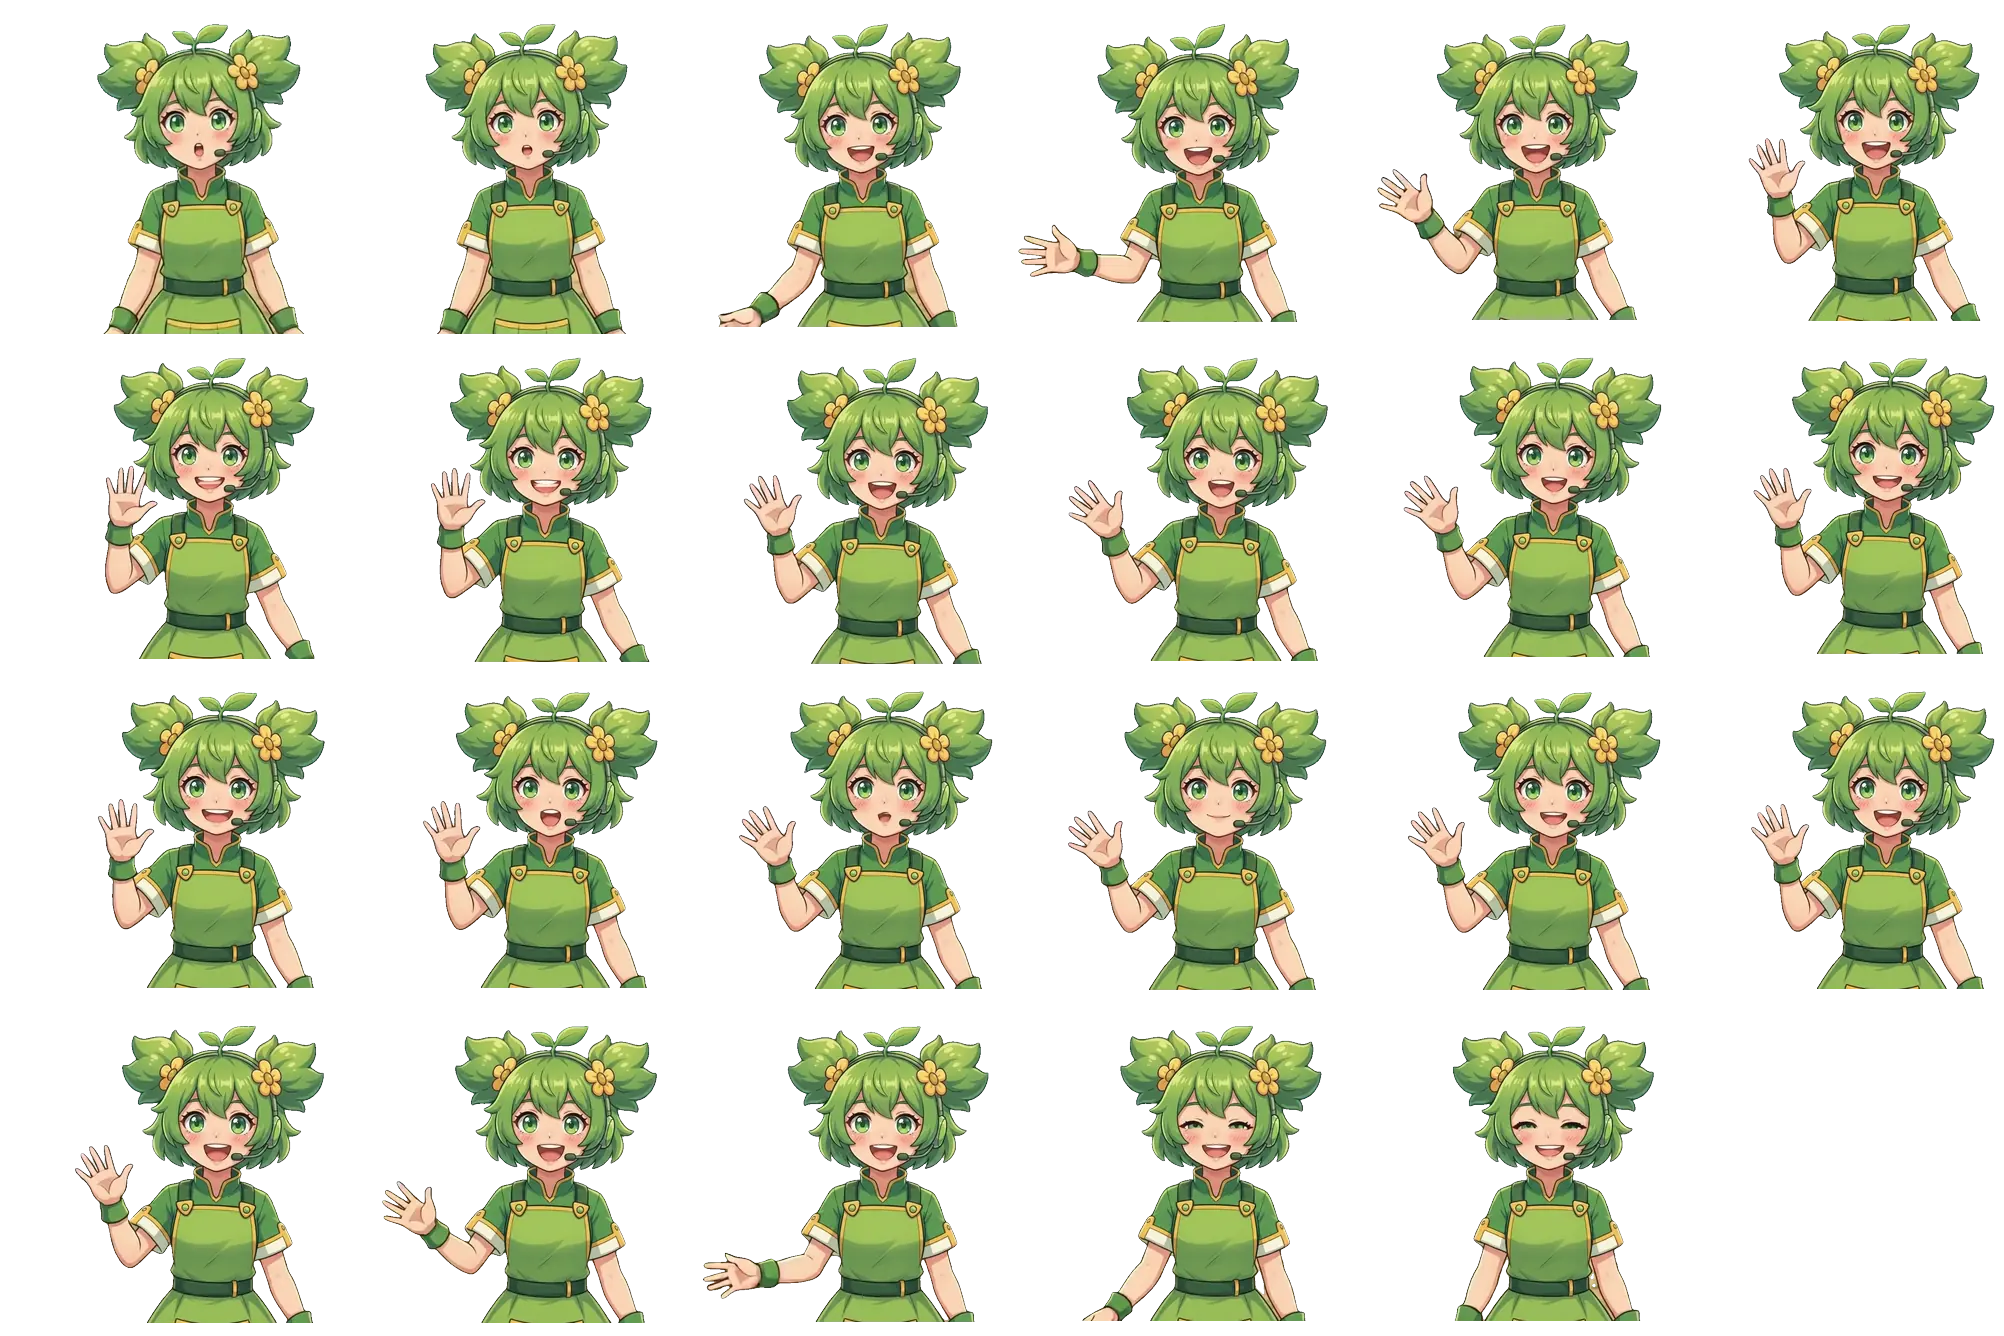
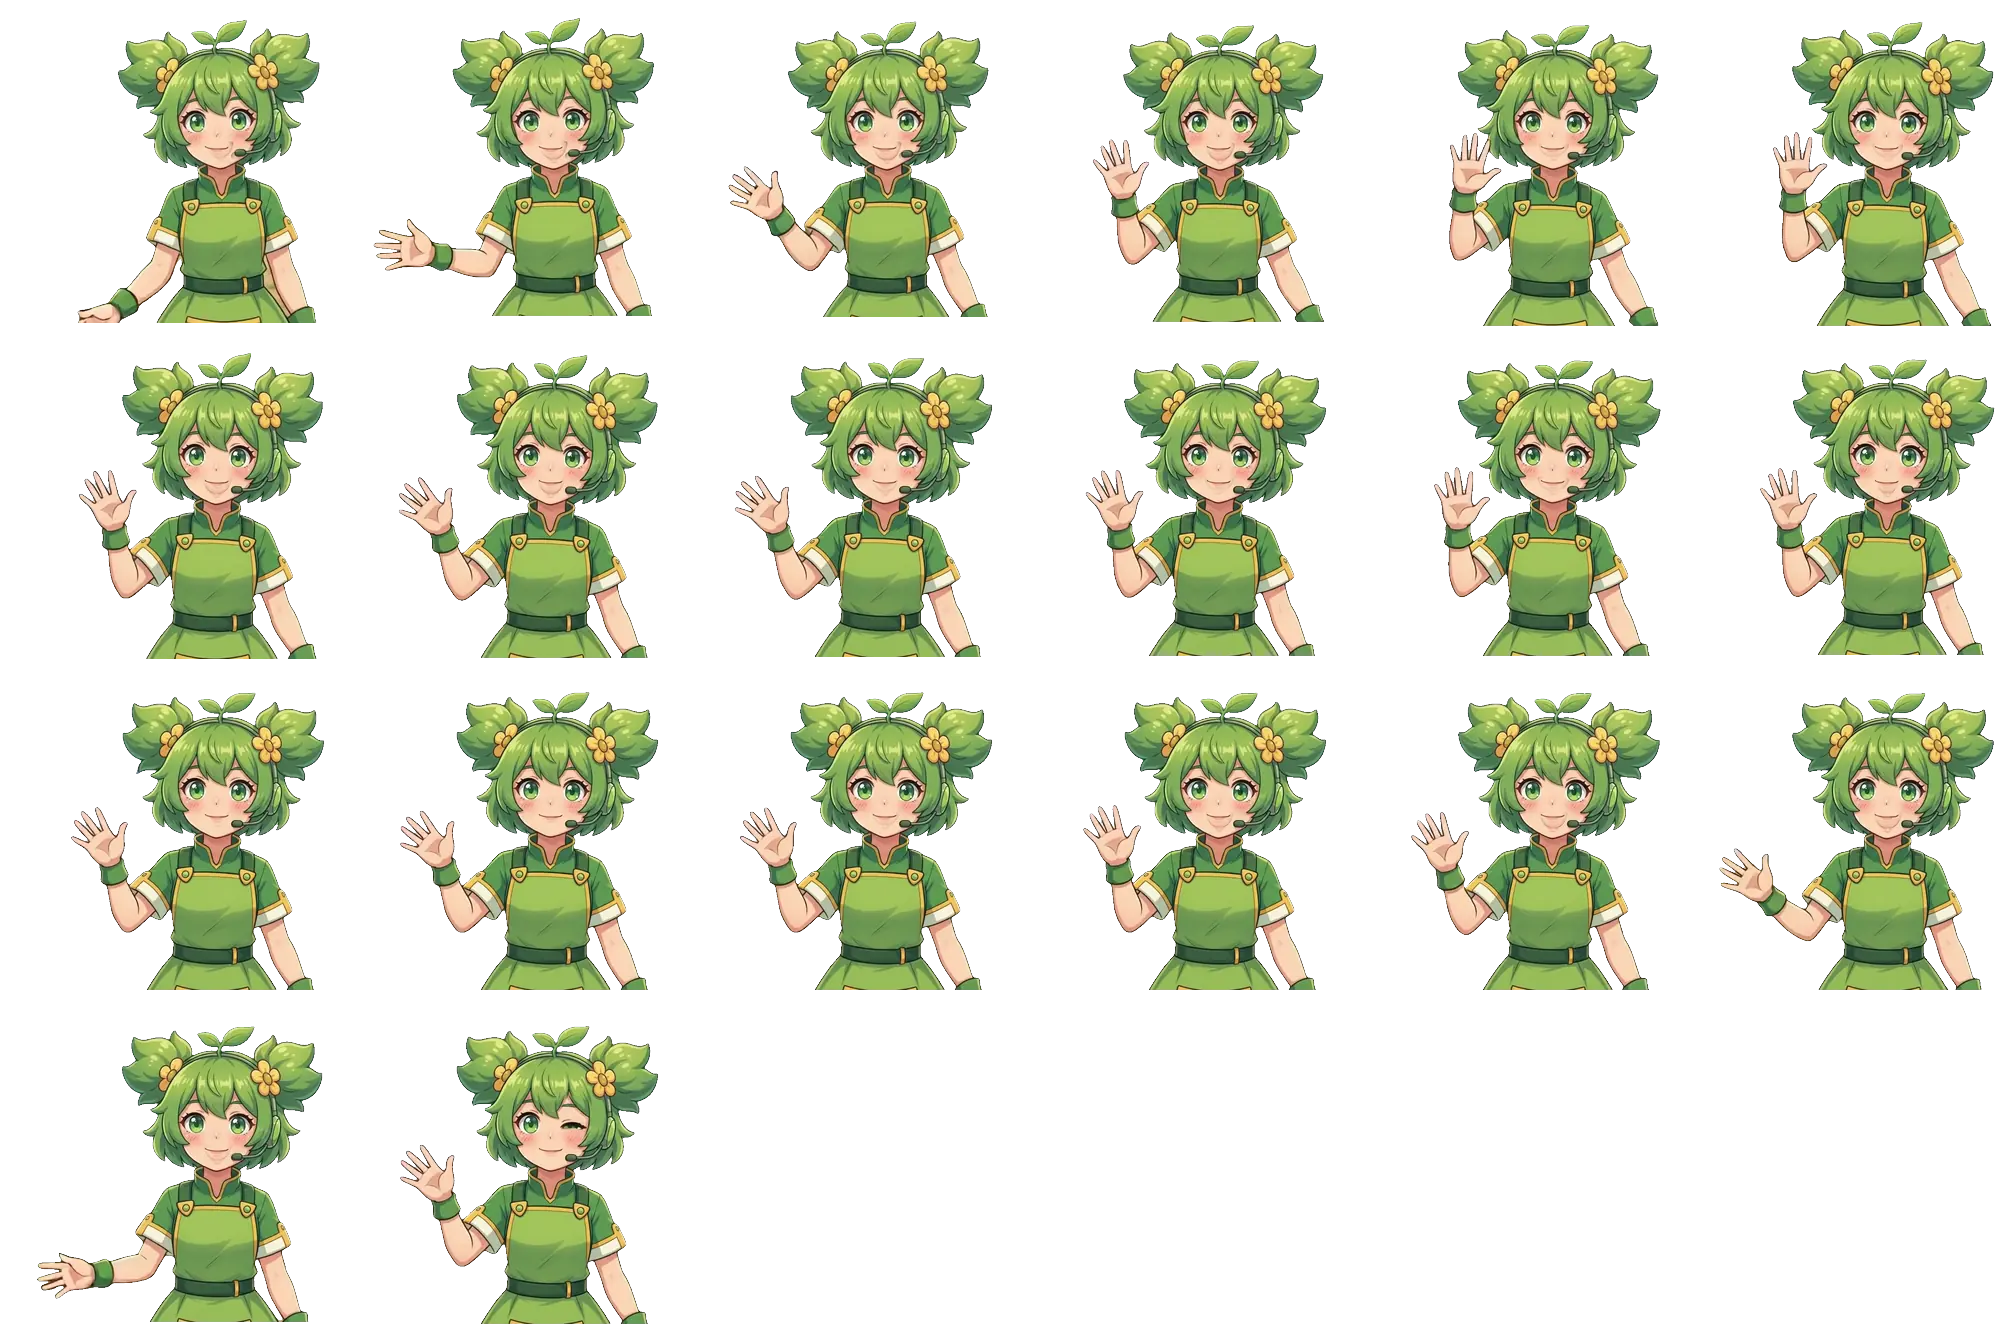
Anee's peek: one closed smile from start to end (no talking), every face lined up so nothing jumps, a wink after the wave, a faint glow that never shows an edge; the price trend now reads net profit

diff --git a/resources/views/public/partials/anee-peek.blade.php b/resources/views/public/partials/anee-peek.blade.php
@@ -2,15 +2,15 @@
      leans in from the right edge of the screen, looks around, notices the
      visitor, waves with a big smile, and leaves.
 
-     Drawn on a canvas, frame by frame, from her own art: the 23 poses in
-     images/anee/peek.webp are cut from her hello film (the walk up, the
-     "oh!", the wave, the happy close) and packed in a 6 wide grid of
-     334 px squares, each scaled so her head is the same size and in the
-     same place. The leaning in, the looking around, the hop, the "!",
+     Drawn on a canvas, frame by frame, from her own art: the 20 poses in
+     images/anee/peek.webp are cut from her hello film (the wave) and packed
+     in a 6 wide grid of 334 px squares, every face lined up on the same
+     spot and wearing the same closed smile (she does not talk), the last
+     one a wink. The leaning in, the looking around, the hop, the "!",
      the sparkles and the leaving are all done here. Once per page view,
      about six seconds, never in anyone's way (no pointer events) and not at
      all under reduced motion or once the visitor has scrolled on. --}}
-<canvas class="hp-peek" data-peek data-sheet="{{ asset('images/anee/peek.webp') }}?v=1" aria-hidden="true"></canvas>
+<canvas class="hp-peek" data-peek data-sheet="{{ asset('images/anee/peek.webp') }}?v=2" aria-hidden="true"></canvas>
 
 @once
 @push('head')
@@ -31,8 +31,8 @@
     const ctx = cv.getContext('2d');
     const FW = 334, COLS = 6, RAD = Math.PI / 180;
     // The poses in the sheet, in order.
-    const OH = 0, NEAR = 1, SMILE = 2, ARM = 3, WAVE = [4, 5, 6, 7, 8, 9, 10, 11, 12, 13, 14, 15, 16, 17], DOWN = [18, 19, 20], HAPPY = 21, HAPPY2 = 22;
-    const END = 6.2;
+    const SMILE = 0, ARM = 1, WAVE = [2, 3, 4, 5, 6, 7, 8, 9, 10, 11, 12, 13, 14, 15], DOWN = [16, 17, 18], WINK = 19;
+    const END = 6.3;
     let size = 300, dpr = 1;
 
     const clamp = (v, a = 0, b = 1) => Math.max(a, Math.min(b, v));
@@ -45,15 +45,14 @@
     // Where she is and which pose, at second t. x is how far she sits out
     // past the right edge (in frame widths), rot her lean, y a hop.
     const pose = (t) => {
-        const s = { x: .62, rot: -16, y: 0, frame: NEAR, bang: 0, spark: 0, glow: 1 };
+        const s = { x: .62, rot: -16, y: 0, frame: SMILE, bang: 0, spark: 0, glow: 1, wink: 0 };
         // In from the edge, only her face and a shoulder: a peek.
         s.x = lerp(1.05, .5, eOut(seg(t, 0, .75)));
         s.glow = seg(t, 0, .6);
         // Looking around.
         if (t > .75 && t < 1.55) { const k = (t - .75) / .8; s.rot = -16 + Math.sin(k * Math.PI * 2) * 4; s.y = Math.sin(k * Math.PI * 4) * -2; }
-        // She notices you: the "oh!", a hop, the "!".
+        // She notices you: a hop, the "!".
         if (t >= 1.55) {
-            s.frame = OH;
             s.y = -14 * Math.sin(seg(t, 1.55, 1.85) * Math.PI);
             s.bang = eBack(seg(t, 1.55, 1.75)) * (1 - seg(t, 2.3, 2.5));
         }
@@ -61,7 +60,6 @@
         if (t >= 1.95) {
             const k = eBack(seg(t, 1.95, 2.45));
             s.x = lerp(.5, .04, k); s.rot = lerp(-16, -3, k);
-            s.frame = SMILE;
         }
         // The wave: the arm comes up, two rounds of waving, the arm comes down.
         if (t >= 2.45) s.frame = ARM;
@@ -70,14 +68,13 @@
             s.frame = f < WAVE.length ? WAVE[f] : WAVE[4 + ((f - WAVE.length) % (WAVE.length - 4))];
             s.spark = seg(t, 2.6, 2.9);
         }
-        if (t >= 4.45) {
-            const f = Math.floor((t - 4.45) * 12);
-            s.frame = f < DOWN.length ? DOWN[f] : (t < 4.95 ? HAPPY : HAPPY2);
-            s.spark = 1 - seg(t, 4.45, 4.9);
-        }
+        // A wink, hand still up.
+        if (t >= 4.35) { s.frame = WINK; s.spark = 1 - seg(t, 4.35, 4.9); s.wink = Math.sin(seg(t, 4.35, 5.05) * Math.PI); }
+        // The hand comes down.
+        if (t >= 5.05) { const f = Math.floor((t - 5.05) * 12); s.frame = DOWN[Math.min(f, DOWN.length - 1)]; }
         // And off she goes, still smiling.
-        if (t >= 5.3) {
-            const k = eInBack(seg(t, 5.3, END - .1));
+        if (t >= 5.35) {
+            const k = eInBack(seg(t, 5.35, END - .1));
             s.x = lerp(.04, 1.1, k); s.rot = lerp(-3, -18, k);
             s.glow = 1 - seg(t, 5.6, END);
         }
@@ -98,10 +95,11 @@
         ctx.setTransform(1, 0, 0, 1, 0, 0);
         ctx.clearRect(0, 0, cv.width, cv.height);
         ctx.setTransform(dpr * u, 0, 0, dpr * u, 0, 0);
-        // A soft light behind her, so she reads on the dark photo.
+        // A faint light behind her head, so she reads on the dark photo;
+        // it fades to nothing well inside the canvas, so no edge ever shows.
         if (s.glow > 0) {
-            const g = ctx.createRadialGradient(205, 140, 10, 205, 160, 190);
-            g.addColorStop(0, `rgba(250, 226, 130, ${.34 * s.glow})`); g.addColorStop(1, 'rgba(250, 226, 130, 0)');
+            const g = ctx.createRadialGradient(214, 150, 0, 214, 150, 118);
+            g.addColorStop(0, `rgba(250, 228, 140, ${.13 * s.glow})`); g.addColorStop(.6, `rgba(250, 228, 140, ${.05 * s.glow})`); g.addColorStop(1, 'rgba(250, 228, 140, 0)');
             ctx.fillStyle = g; ctx.fillRect(0, 0, FW, FW);
         }
         ctx.save();
@@ -122,6 +120,8 @@
             ctx.fillStyle = '#1a1a1a'; ctx.font = '900 23px system-ui, sans-serif'; ctx.textAlign = 'center'; ctx.textBaseline = 'middle'; ctx.fillText('!', 0, 1.5);
             ctx.restore();
         }
+        // A little twinkle by the winking eye.
+        if (s.wink > .01) star(270 + (s.x * FW), 122 + FW * .12 + s.y, 8 * s.wink, t * 3, s.wink);
         // Sparkles round her hand and her face while she waves.
         if (s.spark > .01) {
             [[34, 92, 10, 0], [98, 40, 7, 1.3], [270, 70, 9, 2.1], [22, 170, 7, 3.4], [292, 150, 6, 4.2]].forEach(([x, y, r, ph]) => {

diff --git a/resources/views/public/home.blade.php b/resources/views/public/home.blade.php
@@ -194,7 +194,7 @@
                         <li>{{ $ph ? 'Wet palay is docked for moisture, and the trader sets the weight.' : 'Wet grain is docked for moisture, and the buyer sets the weight.' }}</li>
                         <li>You cannot set the price you get.</li>
                     </ul>
-                    @include('public.partials.sum-trend', ['cls' => 'is-down', 'label' => 'The price you get, season after season', 'heights' => [72, 63, 55, 47, 39, 31]])
+                    @include('public.partials.sum-trend', ['cls' => 'is-down', 'label' => 'The net profit you get, season after season', 'heights' => [72, 63, 55, 47, 39, 31]])
                 </div>
                 <span class="hp-sum-op" aria-hidden="true">=</span>
                 <div class="hp-sum-card is-way reveal" style="--reveal-delay: .24s">
